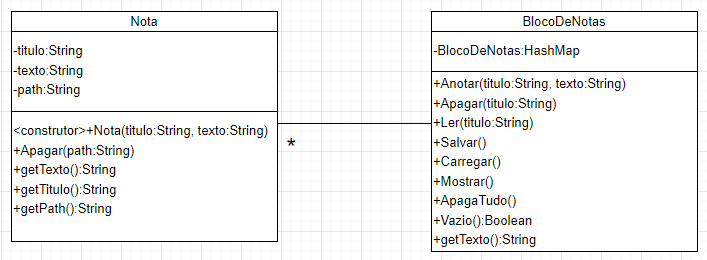
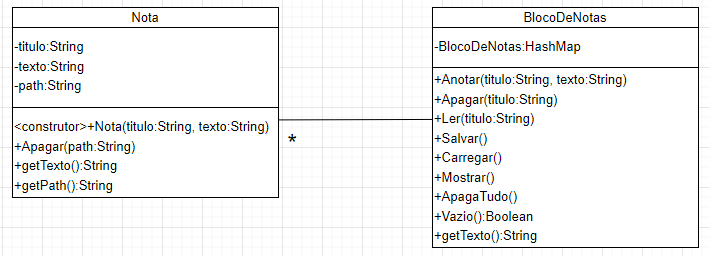
Remoção
Removido método não utilizado.

diff --git a/src/Nota.java b/src/Nota.java
@@ -34,9 +34,5 @@ public class Nota {
         return texto;
     }
 
-    public String getTitulo() {
-        return titulo;
-    }
-
     public String getPath() {return path;}
 }
